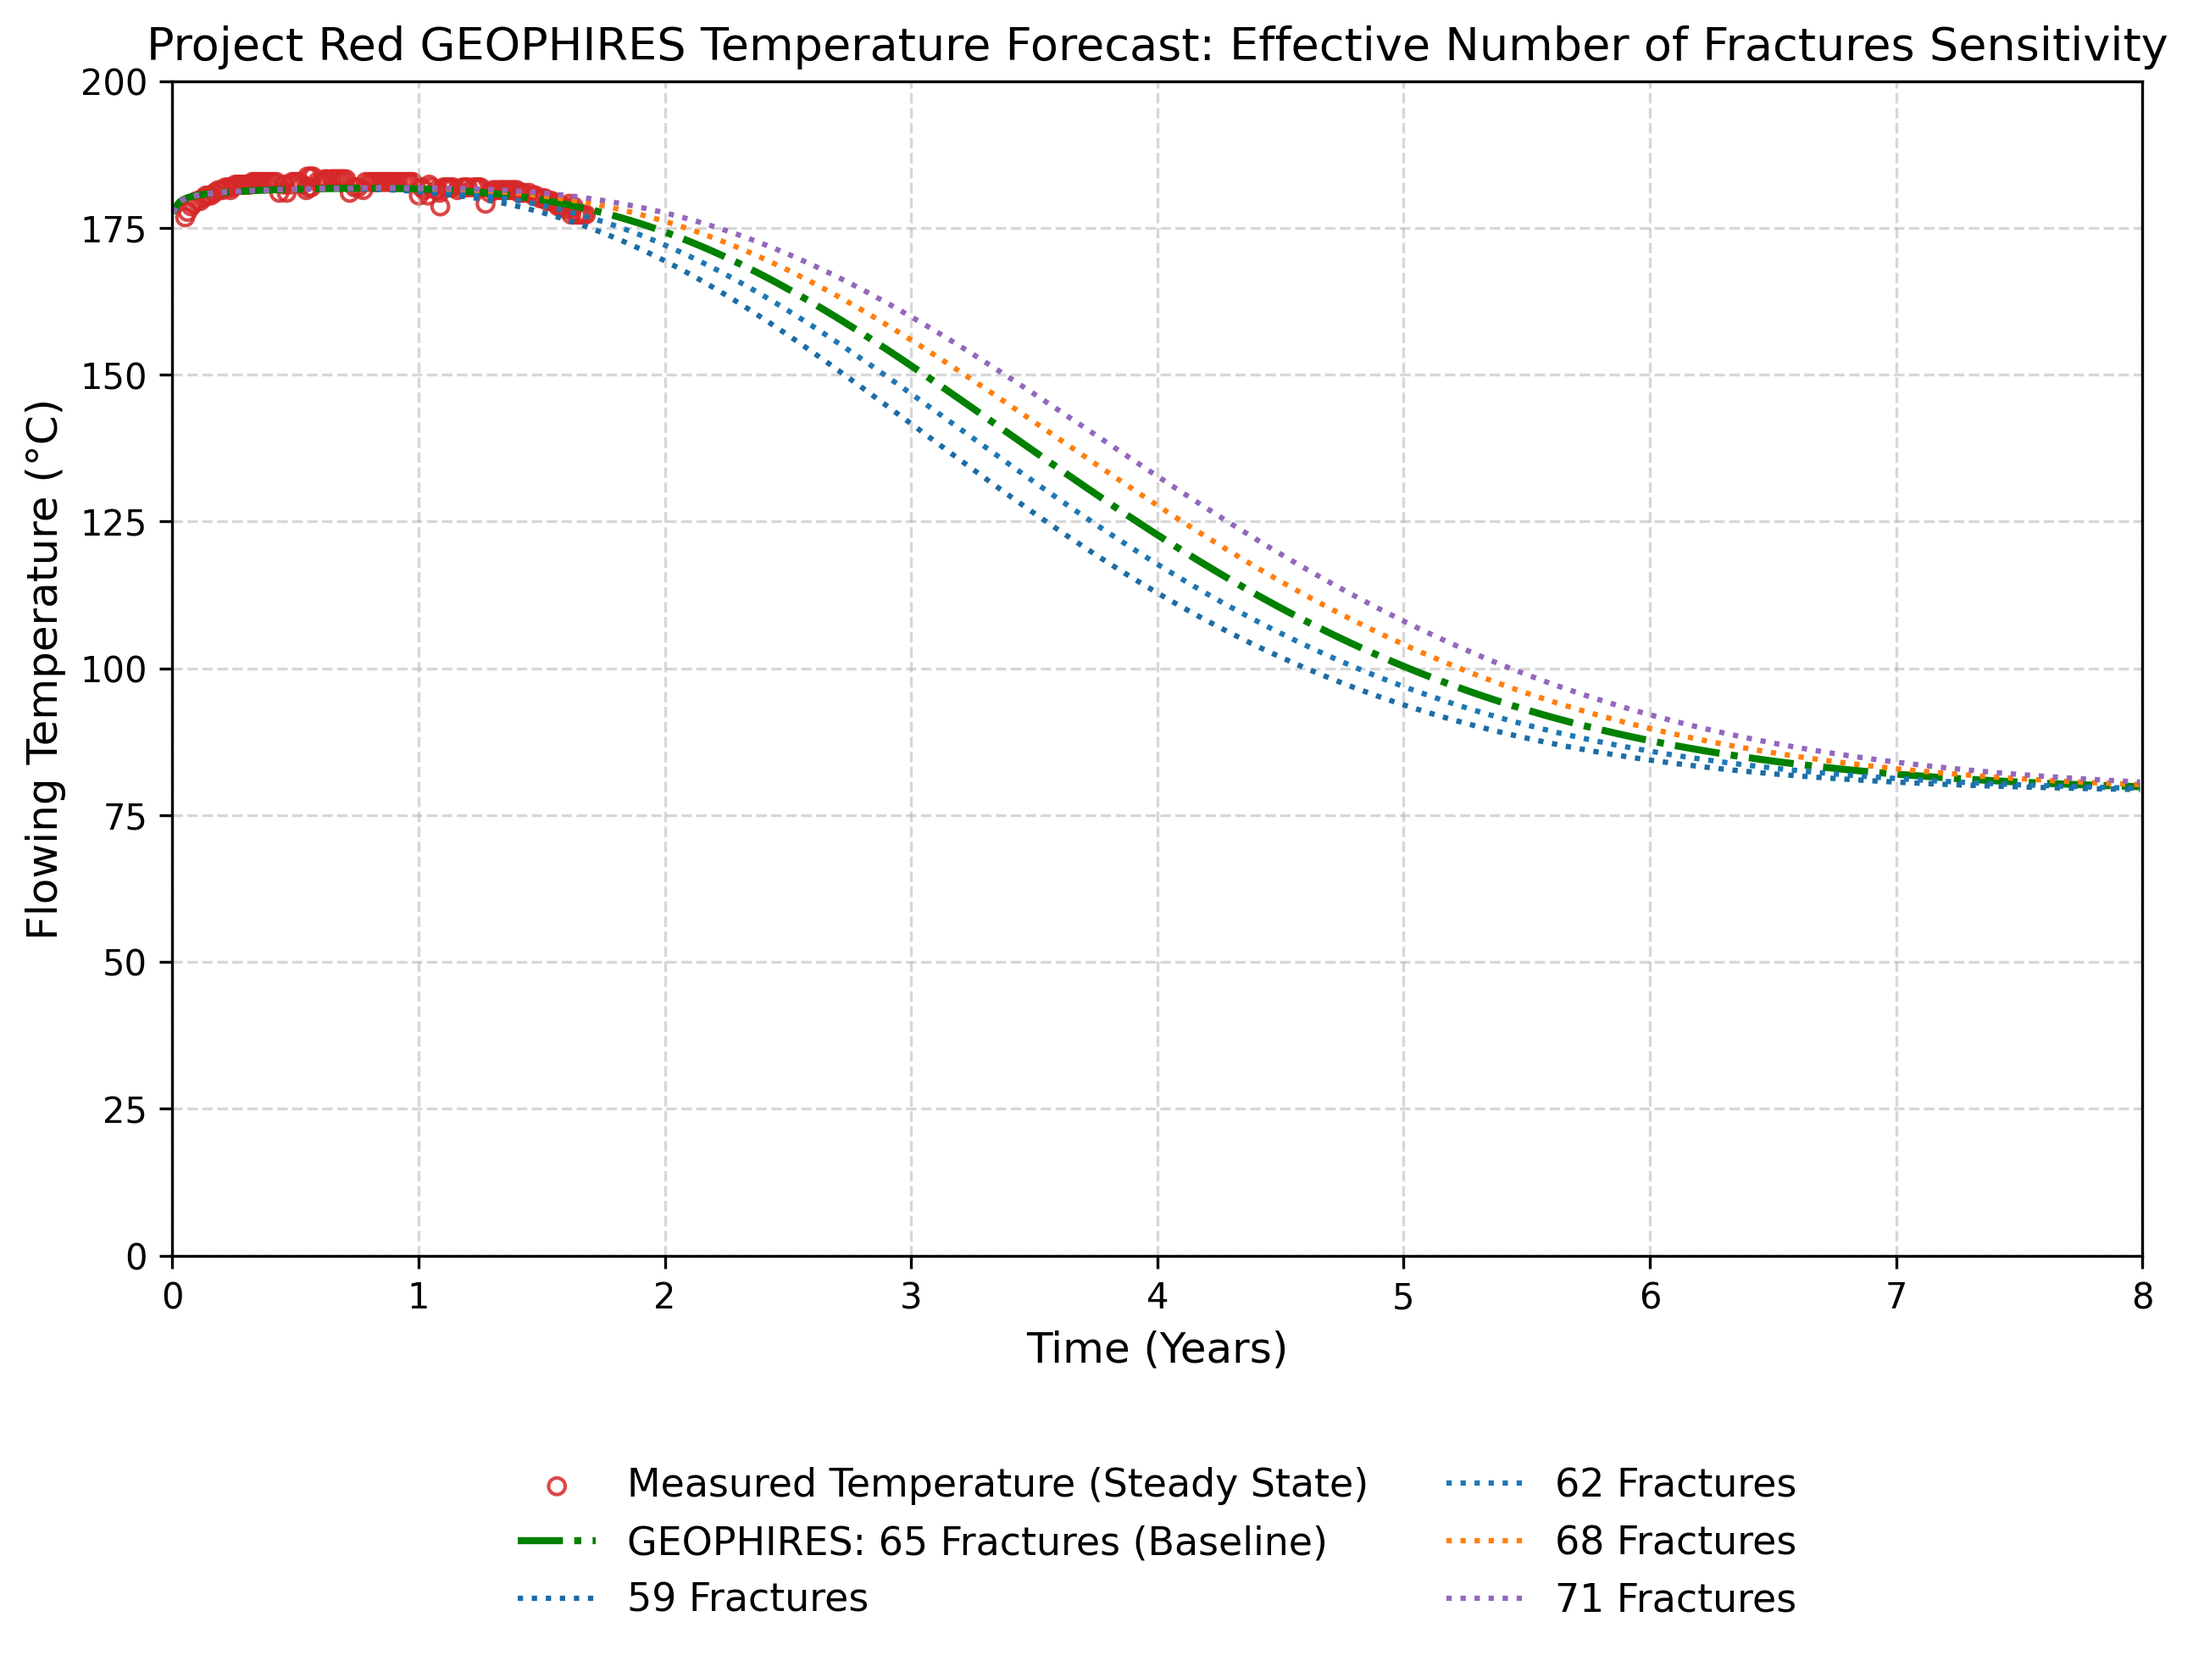
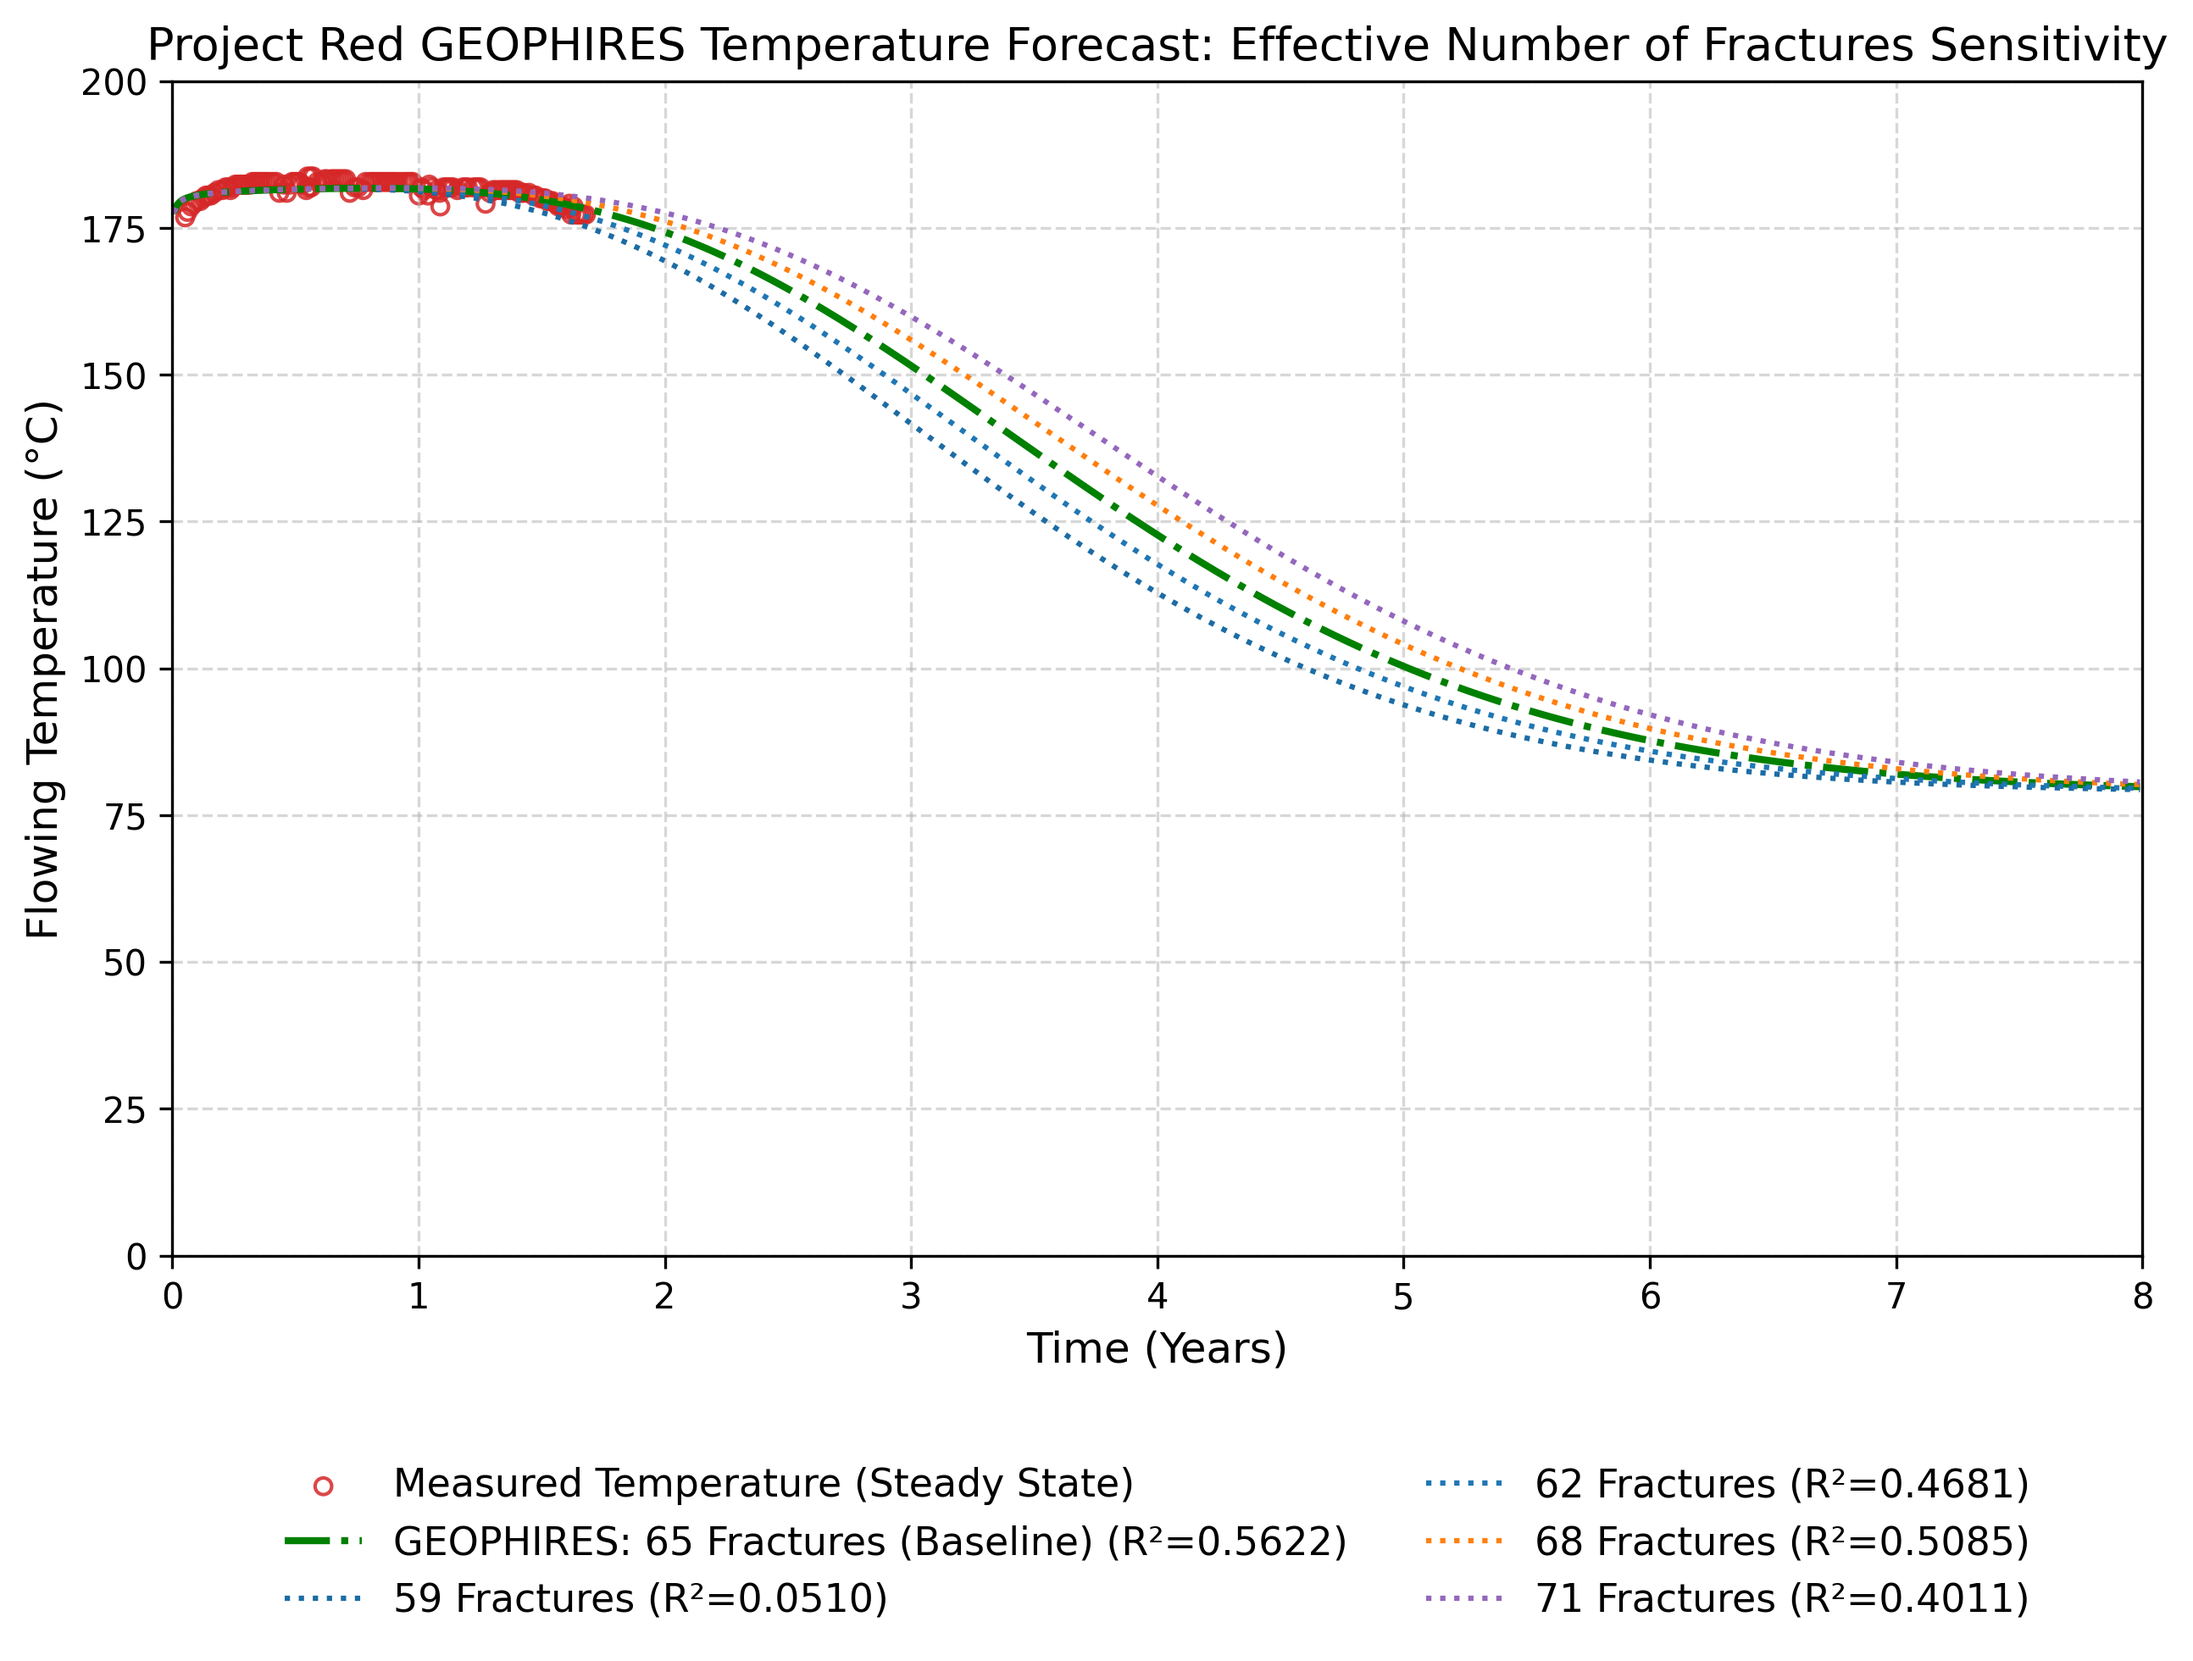
include R^2 label suffix in sensitivity graph

Changed region(s): [[0.1855, 0.8714, 0.6182, 0.9959], [0.6801, 0.8714, 0.9274, 0.9959], [0.1236, 0.9026, 0.1546, 0.9337]]

diff --git a/src/geophires_docs/generate_fervo_project_red_2026_docs.py b/src/geophires_docs/generate_fervo_project_red_2026_docs.py
@@ -627,19 +627,24 @@ def _generate_fracture_sensitivity_graph(
             }
         )
 
+        label_prefix = 'GEOPHIRES: ' if frac_count == base_number_of_fractures else ''
+        label_suffix = ' (Baseline)' if frac_count == base_number_of_fractures else ''
+
         if calculate_stats and not df_included.empty:
             geo_interp = interp1d(geophires_x, geophires_y, kind='linear', fill_value='extrapolate')
             y_geo = geo_interp(df_included['Time_Years'])
 
-            rmse_g = float(np.sqrt(((y_true - y_geo) ** 2).mean()))
-            bias_g = float((y_geo - y_true).mean())
             ss_res_g = float(np.sum((y_true - y_geo) ** 2))
-            r2_g = 1.0 - (ss_res_g / ss_tot) if ss_tot != 0.0 else 0.0
 
-            _log.info(f'{frac_count} Fractures: RMSE={rmse_g:.2f}°C, R²={r2_g:.4f}, Bias={bias_g:.2f}°C')
+            calculated_stats = _StatsAlignmentResult(
+                rmse_degc=float(np.sqrt(((y_true - y_geo) ** 2).mean())),
+                bias_degc=float((y_geo - y_true).mean()),
+                r2=1.0 - (ss_res_g / ss_tot) if ss_tot != 0.0 else 0.0,
+            )
 
-        label_prefix = 'GEOPHIRES: ' if frac_count == base_number_of_fractures else ''
-        label_suffix = ' (Baseline)' if frac_count == base_number_of_fractures else ''
+            _log.info(f'{frac_count} Fractures: {calculated_stats.as_caption}')
+
+            label_suffix += f' (R²={calculated_stats.r2:.4f})'
 
         ax.plot(
             geophires_x,
